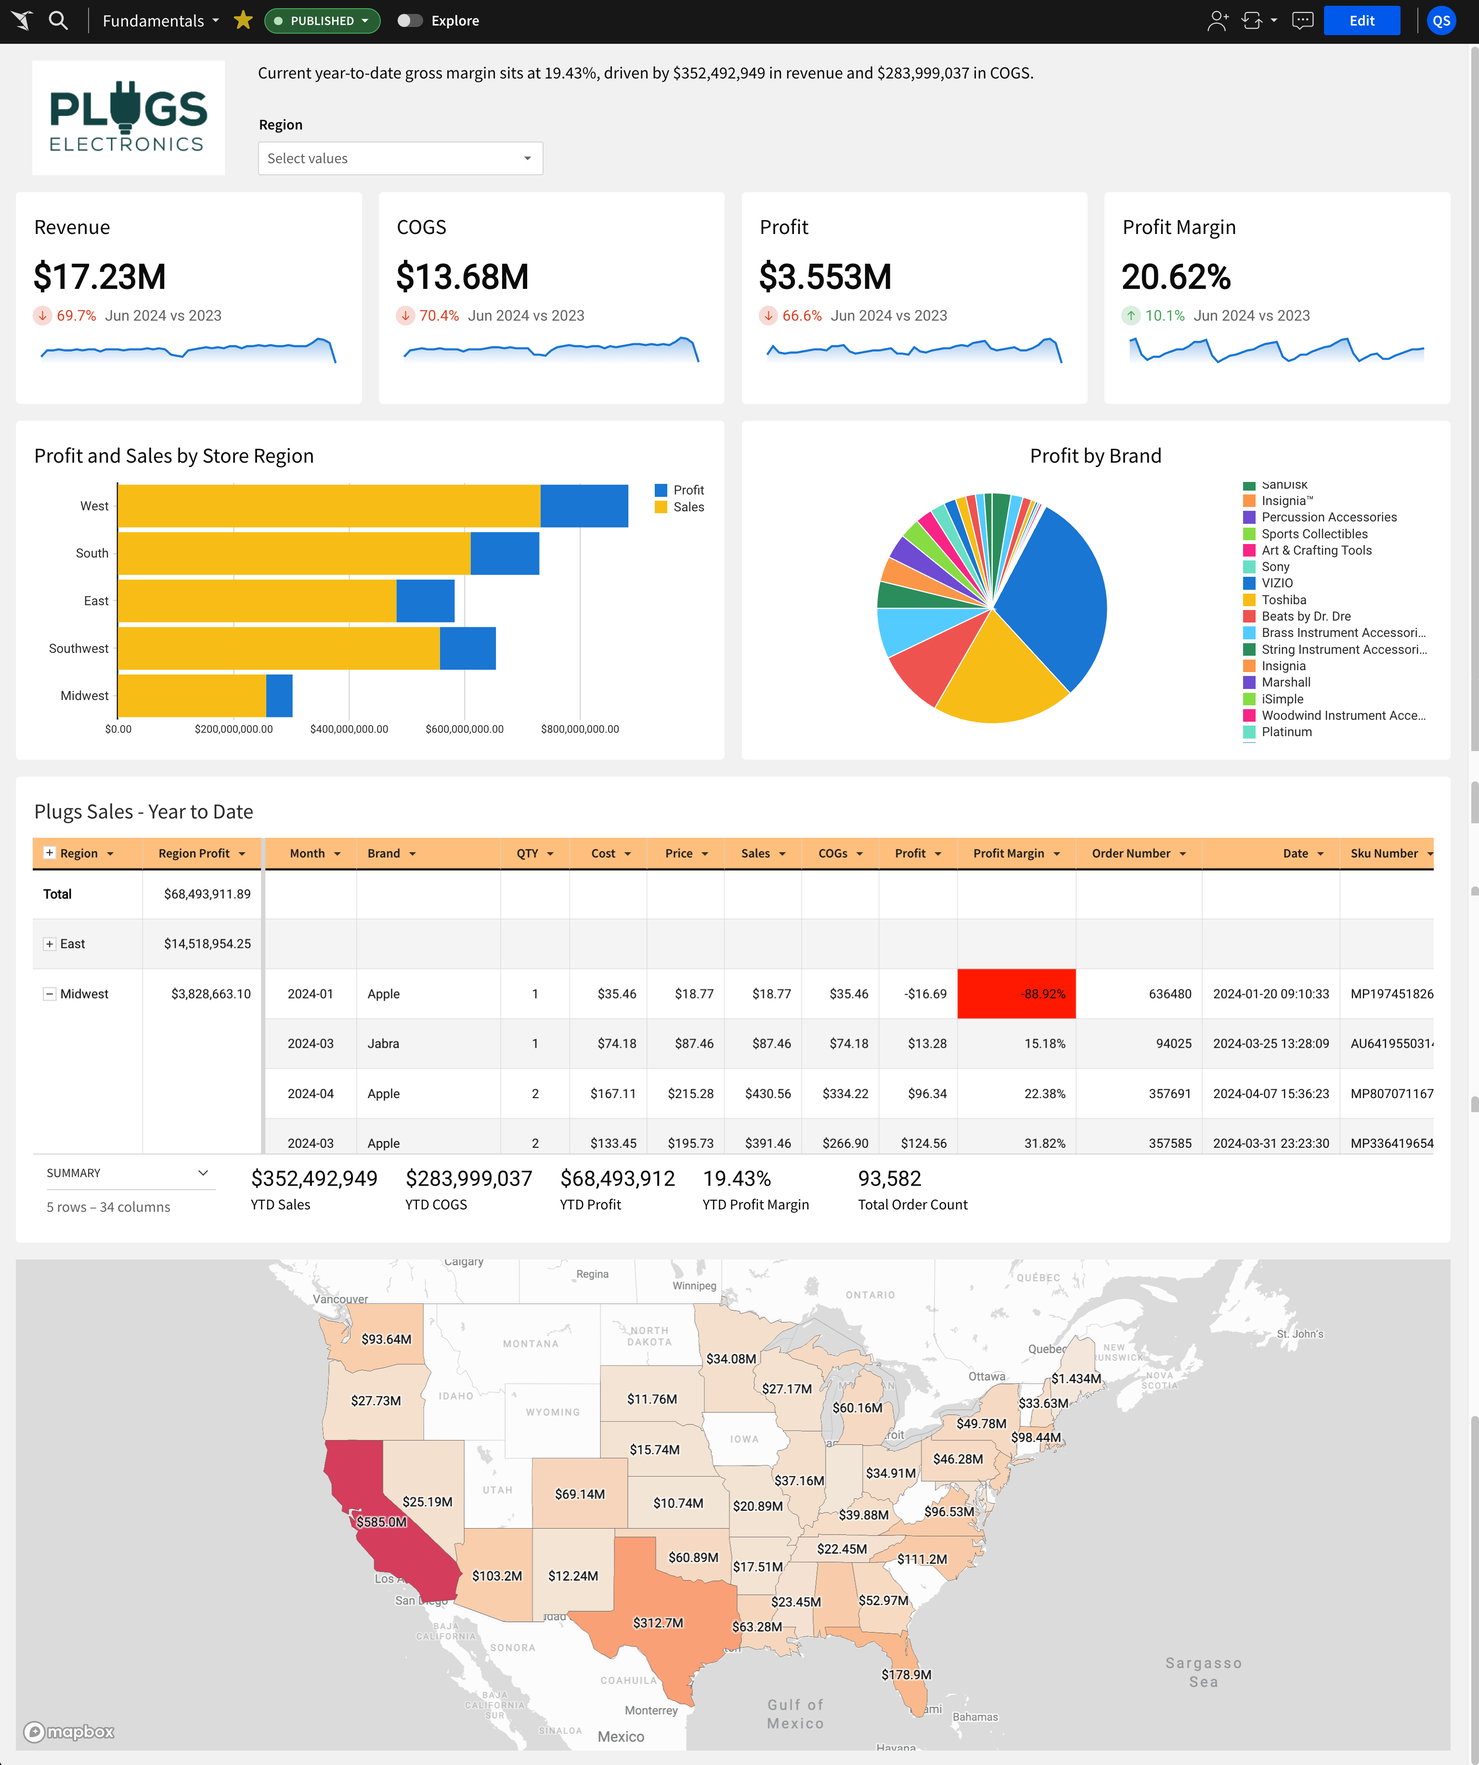
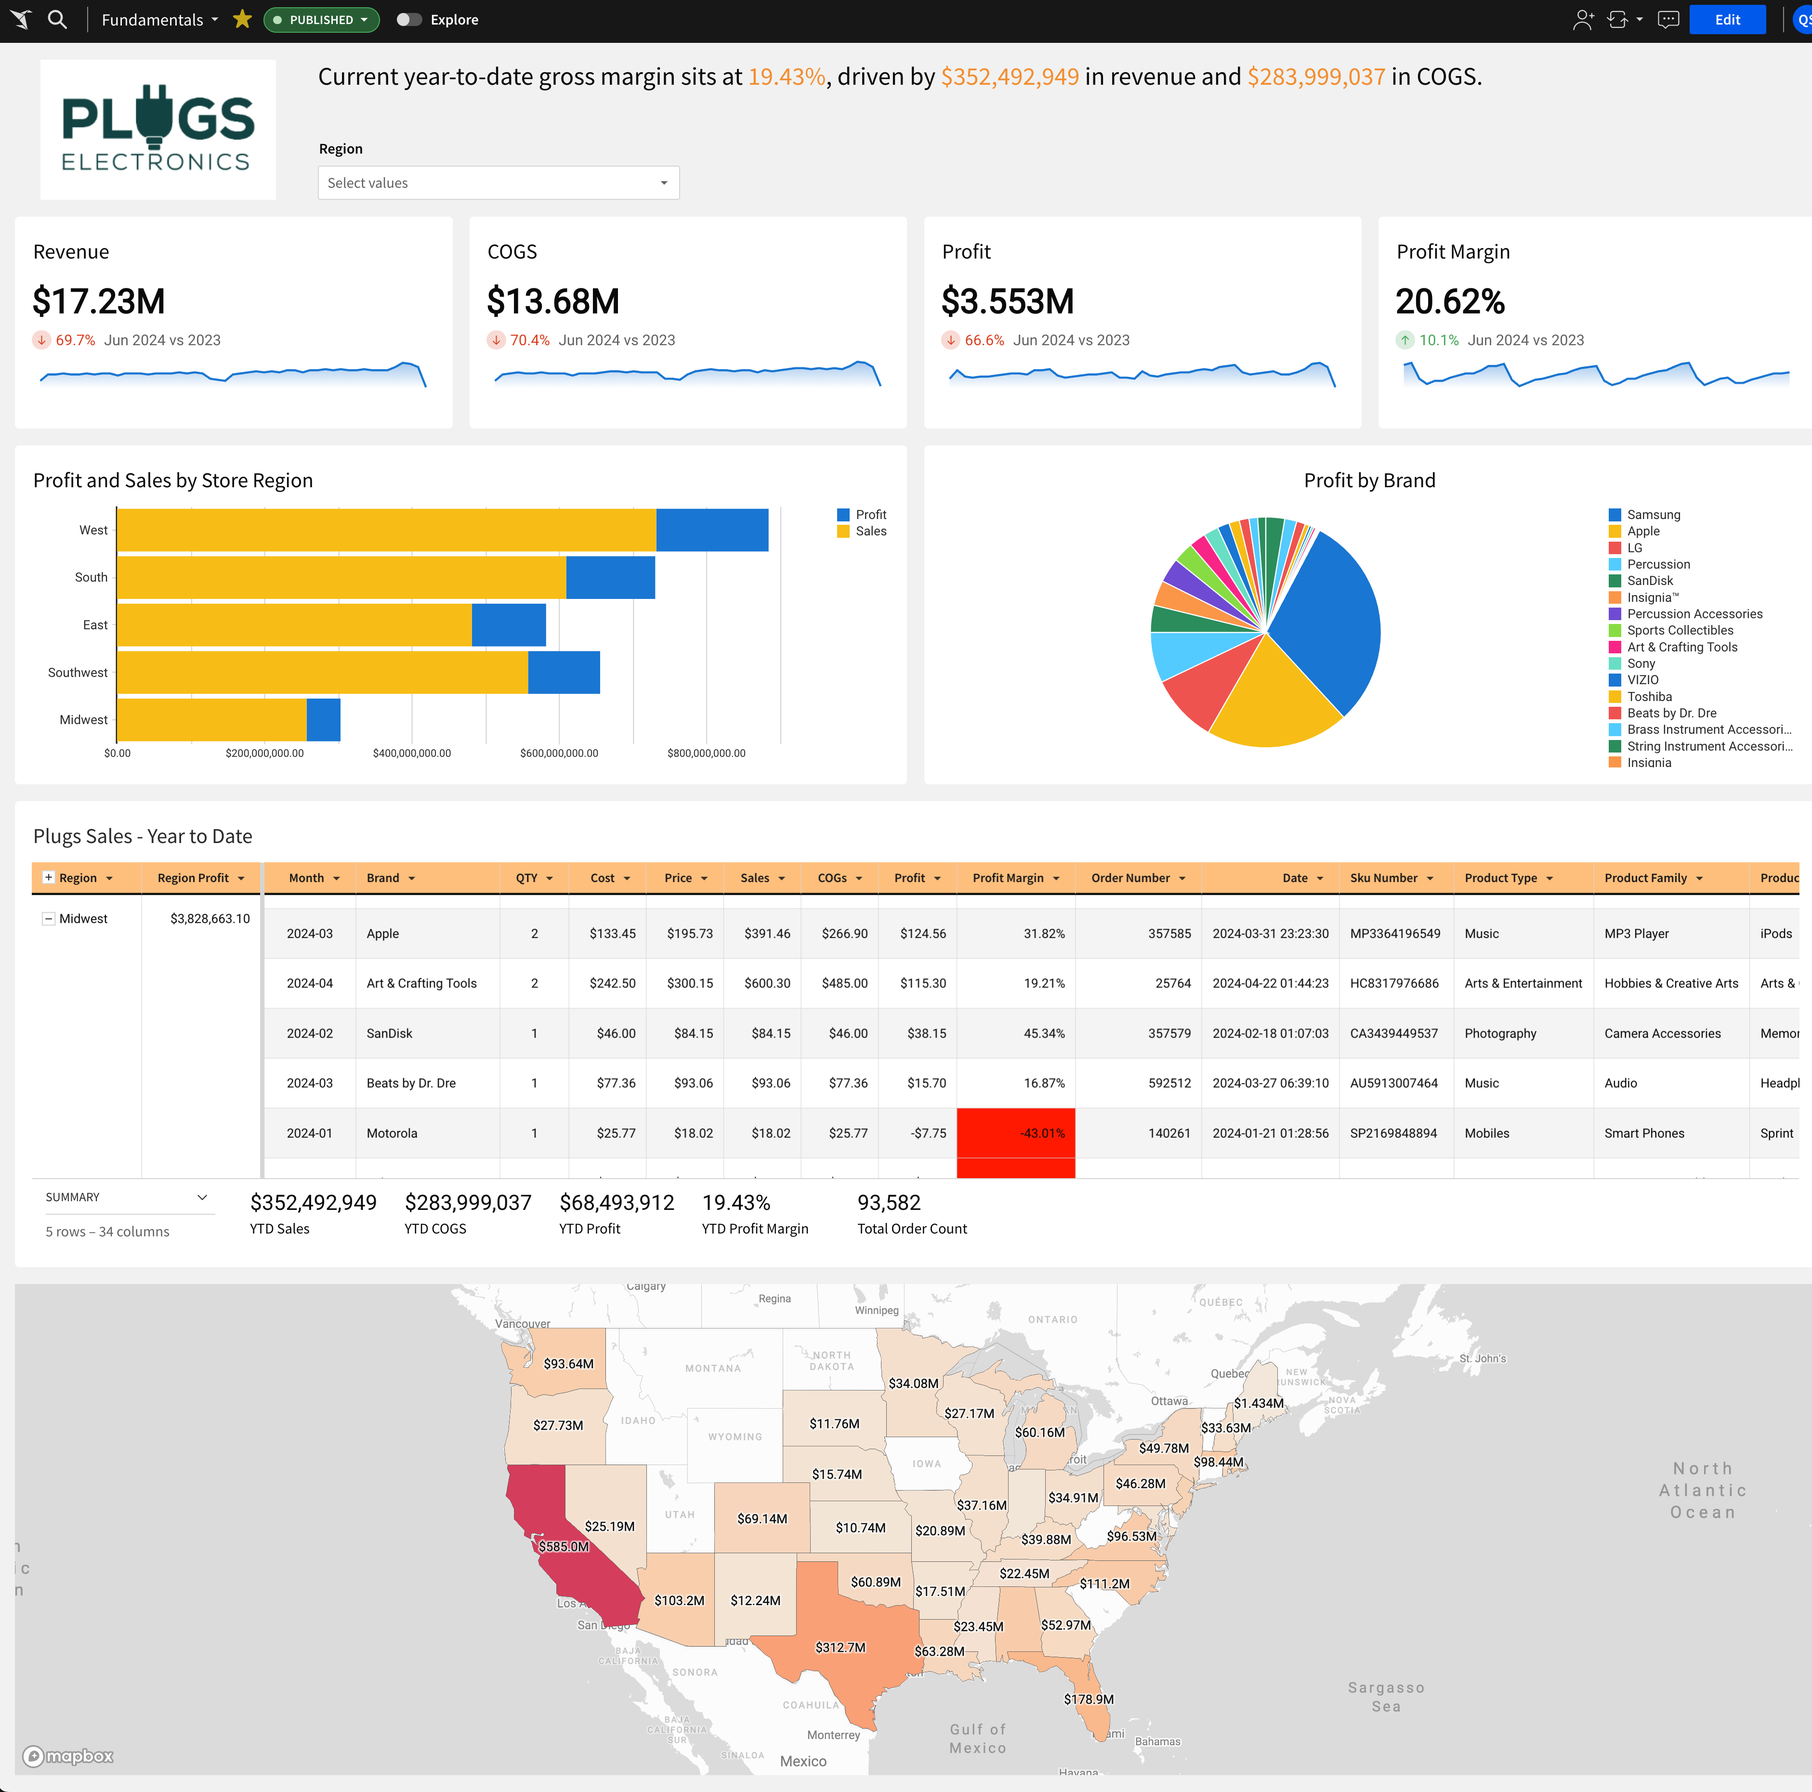
add v2 fundamentals 3

diff --git a/site/sigmaguides/src/Fundamentals 3: Working with Vizualizations-v2/Fundamentals 3: Working with Visualizations.md b/site/sigmaguides/src/Fundamentals 3: Working with Vizualizations-v2/Fundamentals 3: Working with Visualizations.md
@@ -14,7 +14,7 @@ Duration: 5
 
 This QuickStart is part of a series of QuickStarts designed to instruct new users how to use Sigma to explore and analyze data using Visualizations (**Viz**). 
 
-We will be working with some common sales data from our fictitious company `Plugs Electronics`, reusing content we created in the QuickStart “Fundamentals 1: Getting Around”.
+We will be working with some common sales data from our fictitious company `Plugs Electronics`, reusing content we created in the QuickStart [Fundamentals 1: Getting Around.](https://quickstarts.sigmacomputing.com/guide/fundamentals-1-getting-around-v2/index.html?index=..%2F..index#0)
 
 <aside class="positive">
 <strong>IMPORTANT:</strong><br> This QuickStart assumes you have already taken the QuickStart Fundamentals 1 and 2, and are now generally familiar with Sigma. Given this, some steps are assumed to be known and may not be shown in detail.
@@ -80,7 +80,7 @@ Typical audience for this QuickStart are users of Excel, common Business Intelli
 </aside>
 
 ### What You’ll Learn
-Through this QuickStart we will walk through how to use Sigma to create beautiful charts and maps, changing configuration parameters to suit your needs.
+Through this QuickStart, we will walk through how to use Sigma to create beautiful charts and maps, changing configuration parameters to suit your needs.
 
 ![Footer](assets/sigma_footer.png)
 <!-- END OF OVERVIEW -->
@@ -88,7 +88,7 @@ Through this QuickStart we will walk through how to use Sigma to create beautifu
 ## Viz Basics
 Duration: 30
 
-Our starting point is the “Fundamentals” workbook created in the “Fundamentals 2: Working with Tables” QuickStart. 
+Our starting point is the workbook created in the QuickStart, [Fundamentals 2: Working with Tables](https://quickstarts.sigmacomputing.com/guide/fundamentals-2-working-with-tables-v2/index.html?index=..%2F..index#0)
 
 It is often easier to spot trends, outliers, or insights that lead to further questions when viewing data in a visualization.
 
@@ -119,7 +119,7 @@ Drag the Viz above the table:
 This placeholder is a child of the table, as it references everything in the parent table, making it easy to build whatever visualization we want from that data.
 
 <aside class="positive">
-<strong>NOTE:</strong><br> This is awesome because it means someone who knows the underlying data could make this table available with careful curation, and others could just use it.
+<strong>NOTE:</strong><br> This is awesome because it means someone who knows the underlying data could make this table available with careful curation, and others can just use it.
 </aside>
 
 Rename this bar chart reflect `Profit and Sales by Store Region`.
@@ -135,24 +135,24 @@ We have our first Viz:
 <img src="assets/vizbasics4.png" width="800"/>
 
 <aside class="negative">
-<strong>NOTE:</strong><br> Sigma automatically summed the sales and profit columns to create an aggregate. You can change the type of aggregate at any time using the dropdown, or if you do not wish to aggregate the values you can uncheck the ‘Aggregate Values’ checkbox.
+<strong>NOTE:</strong><br> Sigma automatically summed the sales and profit columns to create an aggregate. You can change the type of aggregate at any time using the dropdown, or if you do not wish to aggregate the values, you can uncheck the “Aggregate Values” checkbox.
 </aside>
 
 <img src="assets/vizbasics5.png" width="500"/>
 
 ### Customizations
 
-We can further customize many of the bar chart's attributes using the `element panel` > `chart` icon:
+We can further customize many of the bar chart's attributes using the `Element panel` > `Chart` icon:
 
 <img src="assets/viz2_3.png" width="800"/>
 
-Explore both the `Chart` and `Paint Brush` icons to see what can be customized for the selected chart.
+Explore both the `Chart` and `Paint Brush` (below the chart icon) icons to see what can be customized for the selected chart.
 
 <aside class="negative">
 <strong>NOTE:</strong><br> The available customizations are driven by the type of Viz that is currently selected. 
 </aside>
 
-### Adding new Viz
+### Adding a new Viz
 
 Another way to create a new Viz is by selecting the `+ icon` on the top left panel next to the `Page Elements` title, and selecting `VIZ`:
 
@@ -166,7 +166,7 @@ We will use the same `source selector` that we used when we added a table in Fun
 
 We now have a new chart below our bar chart. 
 
-Drag the new Viz to be side by side with the bar chart, and use the `element panel` to configure it as a pic chart:
+Drag the new Viz to be side by side with the bar chart, and use the `element panel` to configure it as a pie chart:
 
 <img src="assets/vizbasics8.png" width="800"/>
 
@@ -198,7 +198,7 @@ The `Profit by Brand` chart now shows `No Data`. **What happened?**
 
 That chart does not have the `Region` column, so the  query returns no data. 
 
-Remove that chart from the target list to fix that issue. 
+For now we can simply remove that chart from the target list to fix the issue. 
 
 Now, setting the `Region` control to `West` updates the table and bar chart only:
 
@@ -218,11 +218,11 @@ There are many different chart-type visualizations available to experiment with;
 ## KPI Charts
 Duration: 5
 
-As you have seen, there are many different types of visualizations available, and they all follow the same basic workflow. Once you know how to create one, the others will seem obvious.
+As you have seen, there are many different types of visualizations available, and they all follow the same basic workflow. Once you know how to create one, the others will be obvious.
 
-For example, let's say we want a `KPI` that shows `Revenue`, and compares the current month with the same month from the previous year. 
+For example, let's say we want a `KPI` that shows `Revenue`, and compare the current month with the same month from the previous year. 
 
-Use the same workflow to add a new Viz, set its data source to the `PLUGS`_DATA table on the `Data` page, and change the `VISUALIZATION` type to `KPI`.
+Add a new Viz, set its data source to the `PLUGS_DATA` table on the `Data` page, and change the `VISUALIZATION` type to `KPI`.
 
 Now simply use the element panel as before to configure the KPI as shown below:
 
@@ -285,13 +285,13 @@ Read more about [KPI charts here.](https://help.sigmacomputing.com/docs/build-a-
 ## Maps
 Duration: 15
 
-Geographic data can tell a powerful story. Whether analyzing regional trends or plotting sites, maps are packed with insights generated from your location data. Sigma Maps help contextualize geospatial information and provide greater understanding when analyzing data. With Sigma, you can create interactive maps using regions, latitude and longitude, or map paths and areas utilizing geoJSON.
+Geographic data can tell a powerful story. Whether analyzing regional trends or plotting sites, maps are packed with insights generated from your location data. Sigma Maps help contextualize geospatial information and provide greater understanding when analyzing data. With Sigma, you can create interactive maps using regions, latitude and longitude, or map paths and areas utilizing GeoJSON.
 
 <aside class="negative">
 <strong>NOTE:</strong><br> If maps are not used in your role, feel free to skip this section. 
 </aside>
 
-Workbooks support three distinct map types: Region, Point and Geography:
+Workbooks support three distinct map types: **Region**, **Point** and **Geography**:
 
  <ul>
       <li><strong>Region: </strong>Require a single text column on the map's REGION field. For example, you can use a column “US State” to distinguish between “regions” or states in this example</li>
@@ -308,6 +308,8 @@ You many have noticed there is a column called `Cust Json` that has some odd loo
 
 <img src="assets/viz2_5a.png" width="800"/>
 
+In the case of mapping, this json data contains state and region fields we might want to use for a map.
+
 This data is stored in the warehouse using the `Json` format. It is common to see data stored this way and this can present a challenge as it needs to be transformed somewhere in an organizations data management workflows. We have seen many instances where data is received from a third party in this format and everything slows down as importing it can be problematic. 
 
 Sigma can extract json data in seconds. To read more about that, [see the Parsing JSON Data in Seconds QuickStart.](https://quickstarts.sigmacomputing.com/guide/tables_json_parsing/index.html?index=..%2F..index#0)
@@ -316,20 +318,20 @@ If we just want to see what is "inside" the json data, just double-click one of 
 
 <img src="assets/viz2_5b.png" width="800"/>
 
-### Map by Region (State)
-Since we have the US State in the `State Name` column, we can quickly build a region map.
+Since our `PLUGS_DATA` table already has `Store State` we can just use that for demonstration.
 
-Use the same workflow to add a new Viz, set its data source to the `PLUGS_DATA` table on the `Data` page, and change the `VISUALIZATION` type to `Map-Region`.
+### Map by Region (State)
+Add a new Viz, set its data source to the `PLUGS_DATA` table on the `Data` page, and change the `VISUALIZATION` type to `Map-Region`.
 
 Now simply use the element panel as before to configure the map as shown below:
 
 <img src="assets/viz2_5c.png" width="800"/>
 
-We also want to configure `LABEL` and `TOOLIP` options:
+We also want to configure `LABEL` and `TOOLIP` options in the element panel:
 
 <img src="assets/viz2_5d.png" width="700"/>
 
-When you hover over each US-State, the States data value is shown for us: 
+When you hover over each State, the values configured into our `Label` and `Tooltip` are shown: 
 
 <img src="assets/viz2_5e.png" width="500"/>
 
@@ -345,7 +347,7 @@ Click on the `expand` icon in the upper right corner of the map:
 
 Now we can work with the underlying data, which has been grouped and aggregated for us, based on the map's configuration. 
 
-We can browse the data or duplicate it to create different views for our own analysis. 
+We can browse the data or duplicate it to create different views for our own analysis.
 
 <img src="assets/viz2_5h.png" width="800"/>
 
@@ -363,7 +365,9 @@ Click `Publish`.
 ## Dynamic Text
 Duration: 15
 
-Adding a sentence at the top of a dashboard that summarizes important information is really easy in Sigma. We do this in Sigma by adding a `Text` element to the Dashboard:
+Adding a sentence at the top of a dashboard that summarizes important information is really easy in Sigma. 
+
+We do this by adding a `Text` element to the Dashboard:
 
 <img src="assets/viz2_6a.png" width="300"/>
 
@@ -372,7 +376,7 @@ In the function bar, copy and paste the following text:
 Current year-to-date gross margin sits at value, driven by value in revenue and value in COGS.
 ```
 
-We left the work `value` in the text so that we can demonstrate how to make it dynamic.
+We left the word `value` in the text so that we can demonstrate how to make it dynamic.
 
 After selecting the new text element, double-click on the first instance of the word `value`:
 
@@ -391,21 +395,27 @@ In this case, we need `YTD Gross Margin`. Since we have that in the dashboard ta
 ```
 
 <aside class="negative">
-<strong>NOTE:</strong><br> We could also have written a formula to calculate "YTD Profit Margin" from any data that is available to this workbook.
+<strong>NOTE:</strong><br> We could also have just started to type in the function bar and selected from the list of available items or written a formula to calculate “YTD Profit Margin” from any data that is available to this workbook.
 </aside>
 
 <img src="assets/viz2_6d.png" width="600"/>
 
-Now replace the other two instances of `value` with the correct values:
+Now replace the other two instances of `value` with the correct values, using the summaries under the `Plugs Sales - Year to Date` table.
+
+We now have a working example of dynamic text. 
 
 <img src="assets/viz2_6e.png" width="800"/>
+
+We can use the toolbar to change text size, colors and more.
+
+To learn more about [Dynamic Text, click here.](https://help.sigmacomputing.com/docs/text-elements#add-dynamic-text-based-on-your-data)
 
 ### Add a logo
 To wrap up this section, lets add a logo to the Dashboard.
 
 Add another element to the Dashboard, using the `Element panel` > `IMAGE`.
 
-Here is a sample image URL we can just use:
+Here is a sample image URL we can use:
 
 ```code
 https://sigma-quickstarts-main.s3.us-west-1.amazonaws.com/shared_images/plugs_logo.png
@@ -421,22 +431,15 @@ After some repositioning of elements, our Dashboard should look something like t
 
 <img src="assets/viz2_6g.png" width="800"/>
 
-
-
-
-
 ![Footer](assets/sigma_footer.png)
 <!-- END OF MAPS -->
-
 
 ## What we've covered
 Duration: 5
 
-In this QuickStart we learned how to use Sigma to create beautiful charts and maps and how to make configuration changes to the Elements to obtain the desired results.
+In this QuickStart we learned how to use Sigma to create beautiful charts, KPIs, maps and more.
 
 [Click here to move to the next QuickStart in this series.](https://quickstarts.sigmacomputing.com/guide/fundamentals-4-working-with-pivot-tables/index.html)
-
-![Alt text](assets/Final.png)
 
 **Additional Resource Links**
 

diff --git a/site/sigmaguides/src/Fundamentals 1: Getting Around_v2/Fundamentals 1: Getting Around.md b/site/sigmaguides/src/Fundamentals 1: Getting Around_v2/Fundamentals 1: Getting Around.md
@@ -151,11 +151,16 @@ Once you open a different page, you may notice the back arrow next to the Sigma 
 <img src="_shared_assets/3.png" width="25"/> **Create New:** Use this anytime you want to create new content.
     <ul>
       <li><strong>Workbook:</strong> our spreadsheet UI for analyzing data</li>
-      <li><strong>Data Model:</strong> enables the curation of data objects to then be shared with others.</li>
-      <li><strong>Dataset:</strong> provides data modelling.</li>
+       <li><strong>Dataset:</strong> Model your data in Sigma using datasets, or collections of data based on tables in your CDW or DBMS.</li>
+      <li><strong>Datamodel:</strong> A data model is a type of Sigma document that provides the framework for creating and managing a collection of reusable elements.</li>
       <li><strong>Write SQL:</strong> allows you to write SQL to run against the data warehouse.</li>
       <li><strong>Upload CSV:</strong> allows you to upload a csv to the warehouse in order to perform analysis.</li>
     </ul>
+     
+<aside class="positive">
+<strong>IMPORTANT:</strong><br> Datamodels will eventually replace Datasets, which is the older method Sigma provided. Customer's using Datasets can continue to use them, but Datamodels will provide more functionality and is the preferred method of modeling data in Sigma, once released from Beta.
+</aside>
+
 
 <aside class="positive">
 <strong>IMPORTANT:</strong><br> The second thing to remember is that we have built Sigma from day one on a modern cloud architecture. This allows us to add new functionality really quickly!.
@@ -236,7 +241,7 @@ Analysis and presentation are seamlessly integrated into a spreadsheet-like expe
 
 This is useful to know because if you want to build something in Sigma (e.g., a dashboard, report, etc.), you’ll need a workbook, at least one page, and some data. Data can come from a cloud data warehouse or end-user input, but we’ll talk more about that later.
 
-One unique feature that may be new to users of traditional BI products is the `Input Tables`. This feature allows data to be captured from the user and stored in the warehouse. 
+One unique feature that may be new to users of traditional BI products is the “Input Tables.” feature. Input Tables allow data to be captured from the user and stored in the warehouse. 
 
 In addition, data in an Input Table can be joined via a [lookup](https://help.sigmacomputing.com/docs/add-columns-through-lookup) to other warehouse tables. 
 

diff --git a/site/sigmaguides/src/Fundamentals 2: Working with Tables-v2/Fundamentals 2: Working with Tables.md b/site/sigmaguides/src/Fundamentals 2: Working with Tables-v2/Fundamentals 2: Working with Tables.md
@@ -640,7 +640,7 @@ Our `Fundamentals` workbook looks something like this:
 
 <img src="assets/finalFun1.png" width="800"/>
 
-[Click here to move to the next QuickStart in this series.](https://quickstarts.sigmacomputing.com/guide/fundamentals-3-working-with-visualizations/index.html?index=..%2F..index#0)
+[Click here to move to the next QuickStart in this series.](https://quickstarts.sigmacomputing.com/guide/fundamentals-3-working-with-visualizations-v2/index.html?index=..%2F..index#0)
 
 **Additional Resource Links**
 
